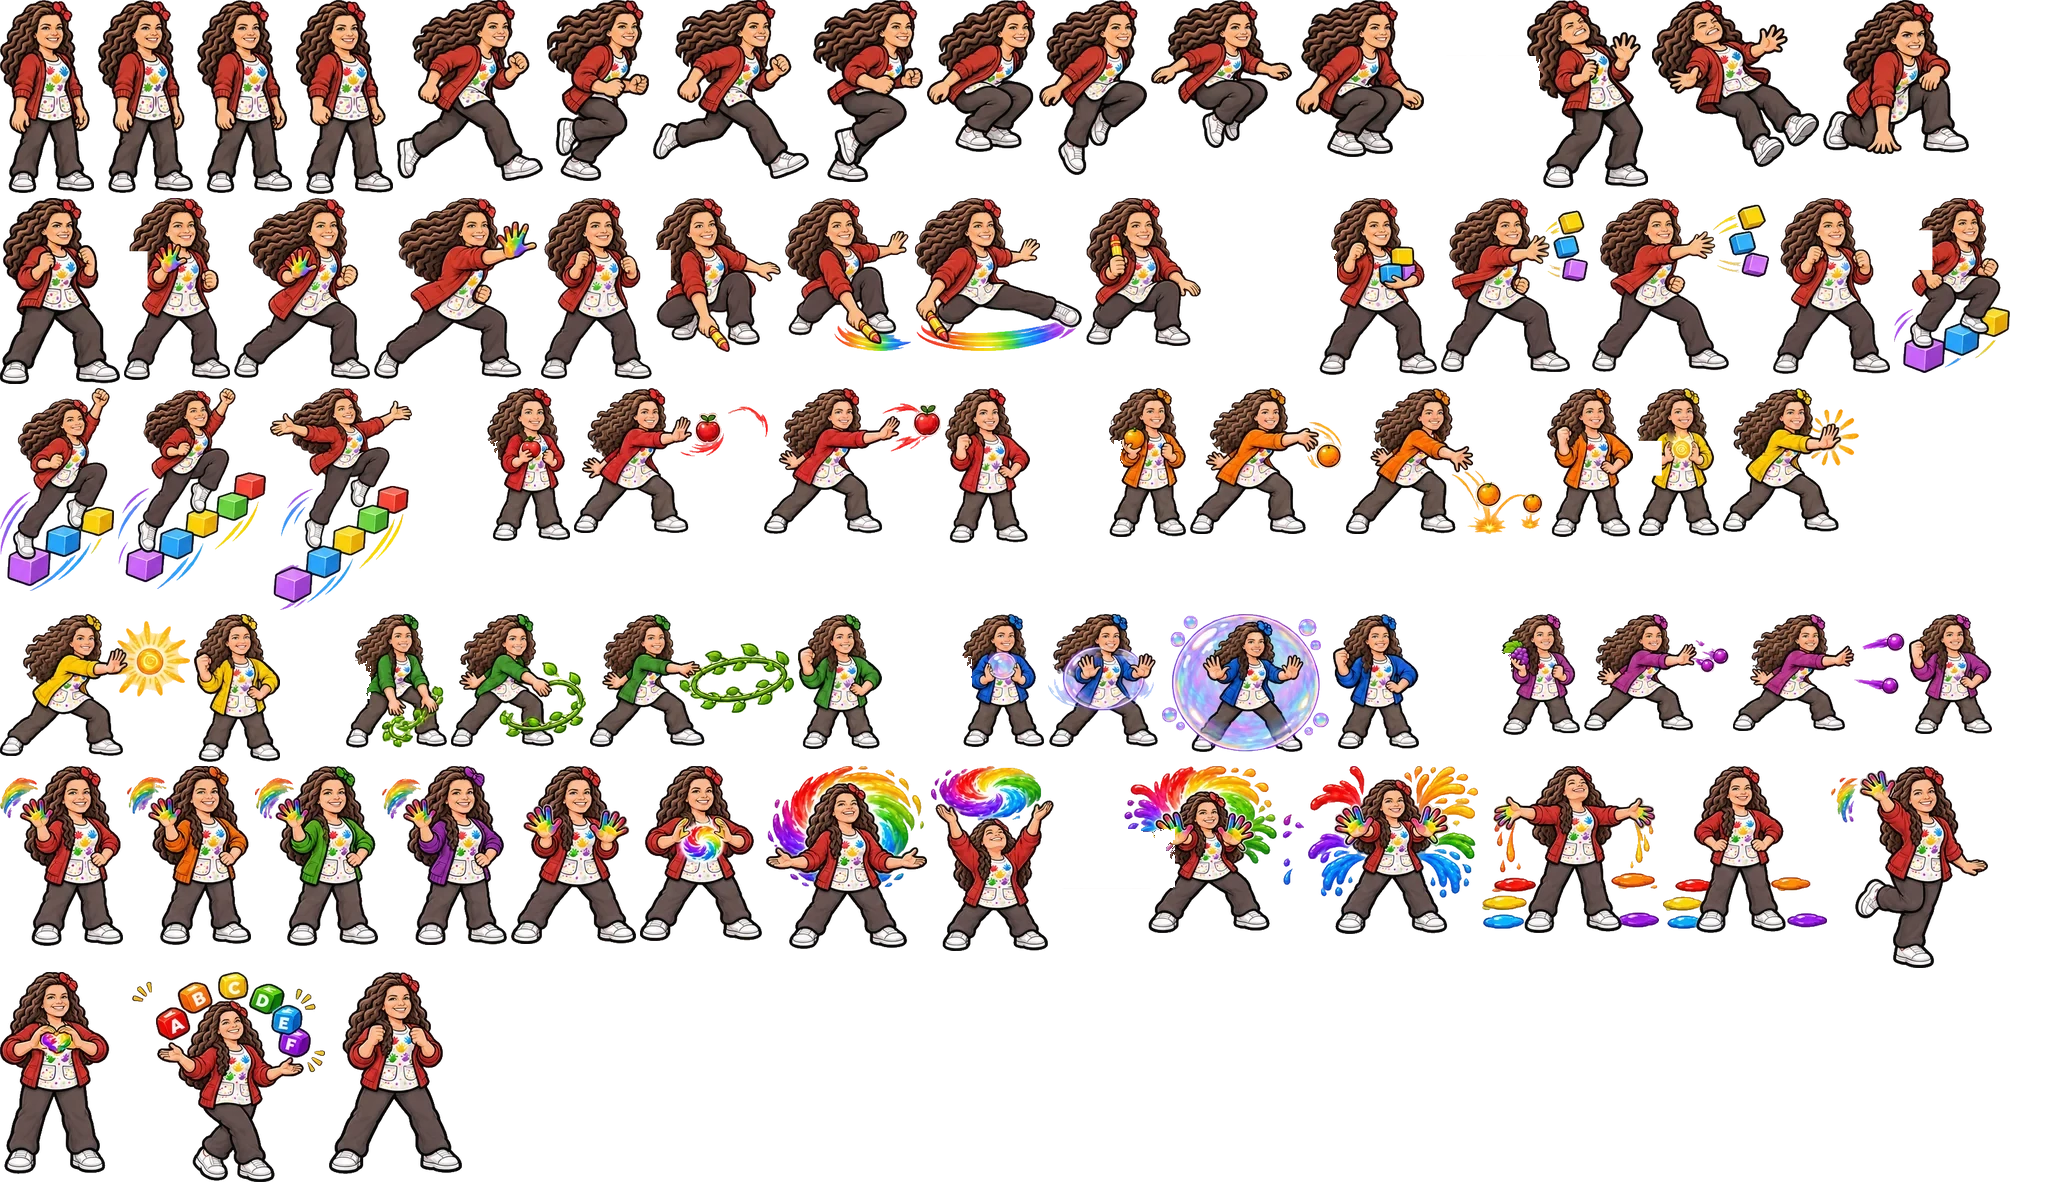
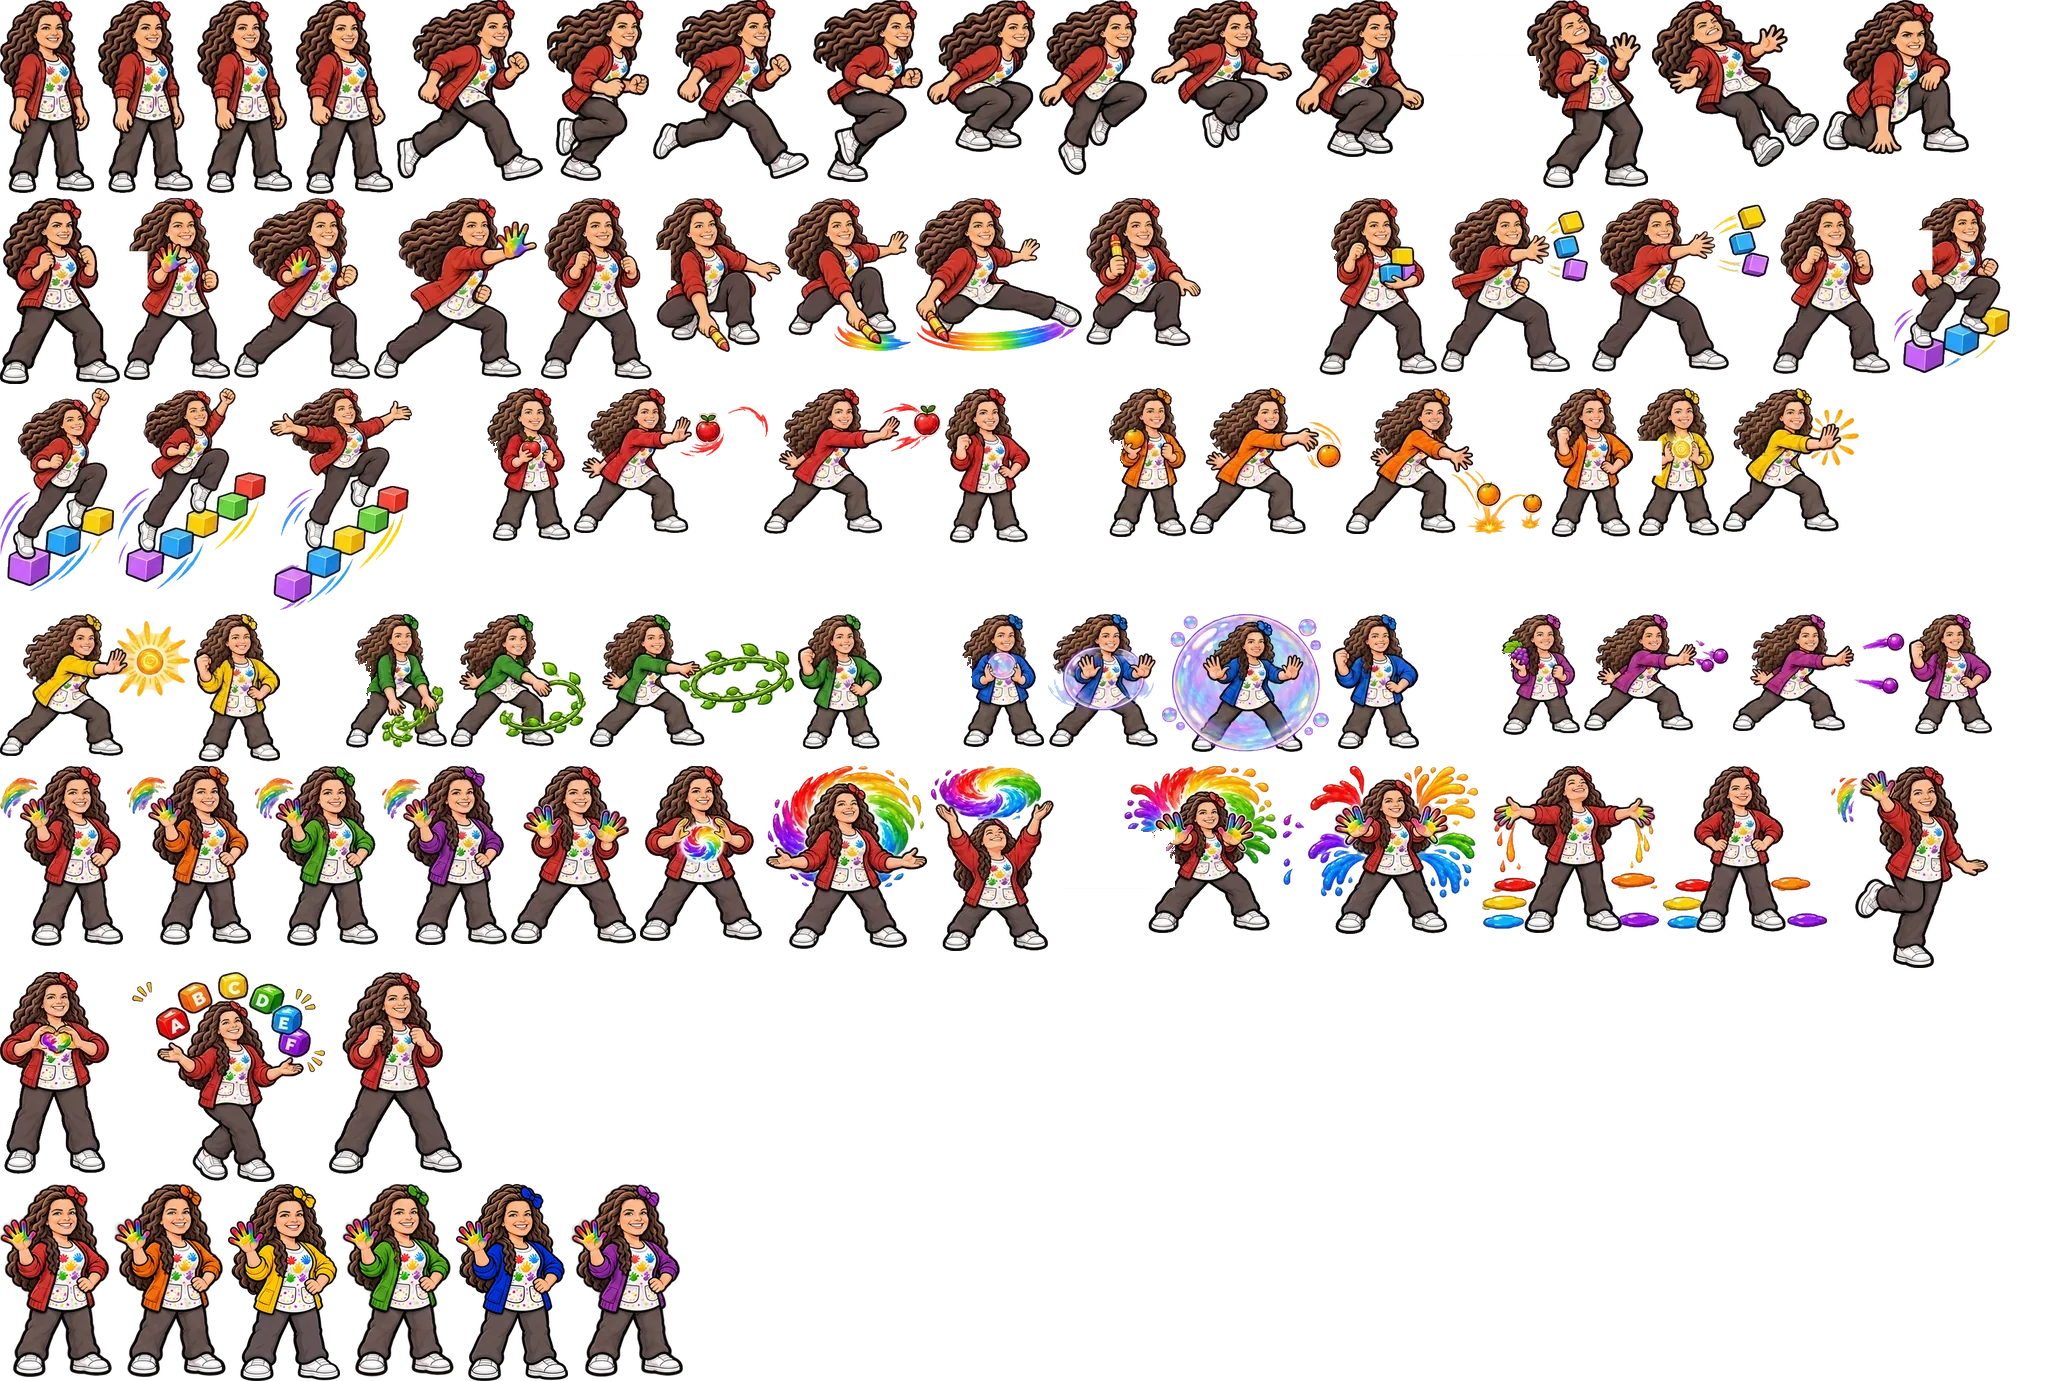
Morris Mayhem: Cloe's colour-swap poses and new giant close-up portraits
Cloe now waves in the jacket colour she is switching to (ChatGPT's six swap
key poses, sized to her standing height; tools/add_cloe_swaps.py). Giant
Jeff, Giant Patty and Triple Trouble use ChatGPT's new head-and-shoulder
close-ups on fighter select and Meet the family.

Claude-Session: https://claude.ai/code/session_01RfvCk8BiTKNajYvhD14yr3

diff --git a/morris-mayhem/src/js/render.js b/morris-mayhem/src/js/render.js
@@ -41,7 +41,7 @@ window.MM = window.MM || {};
       if (a.type === 'dodge') return M.defRow && f.ground ? M.defRow + (a.roll ? (a.t < 10 ? 2 : 3) : a.t < 8 ? 0 : 1) : f.ground ? 'idle0' : 'jump2';
       if (a.type === 'cleanup') return 'cup' + Math.min(3, Math.floor(a.t / (a.dur / 4))); // Codee: brush off the mess, into the lab coat
       if (a.type === 'backwork') { const nb = (f.def.mess && f.def.mess.backPoses) || 4; return 'back' + Math.min(nb - 1, Math.floor(a.t / (a.dur / nb))); }
-      if (a.type === 'shirt') return f.def.cycle === 'all' ? 'shuffle' + Math.min(3, a.t >> 2) : 'bump' + f.formIdx; // Cloe: the palette shuffle
+      if (a.type === 'shirt') return f.def.cycle === 'all' ? (S.frames['swap' + f.def.form] ? 'swap' + f.def.form : 'shuffle' + Math.min(3, a.t >> 2)) : 'bump' + f.formIdx; // Cloe: waves in the colour she switched to
       if (a.type === 'powerup' && S.frames.cup0) return 'cup' + Math.min(3, Math.floor(a.t / (a.dur / 4)));
       if (a.type === 'powerup') return 'idle0';
       if (a.type === 'powerend') return S.frames.back0 ? 'back' + Math.min(3, Math.floor(a.t / (a.dur / 4))) : 'idle0'; // Cole shows off the new printed shirt

diff --git a/morris-mayhem/src/js/sprites.js b/morris-mayhem/src/js/sprites.js
@@ -2501,6 +2501,12 @@ MM.SPRITES['cloe'] = {
     'pers1': [0, 972, 152, 202, 54.6, 202.1],
     'pers2': [156, 972, 169, 210, 77.8, 209.6],
     'pers3': [329, 972, 133, 202, 66.3, 201.5],
+    'swapred': [0, 1184, 112, 193, 55.8, 193.4],
+    'swaporange': [114, 1184, 112, 193, 55.8, 192.7],
+    'swapyellow': [228, 1184, 112, 197, 56.5, 196.7],
+    'swapgreen': [342, 1184, 112, 193, 55.8, 193.4],
+    'swapblue': [456, 1184, 112, 197, 56.5, 196.7],
+    'swappurple': [570, 1184, 113, 193, 56.5, 193.4],
     'ent': [1831, 766, 157, 202, 90.5, 202.1],
     'taunt': [0, 972, 152, 202, 54.6, 202.1],
     'win': [156, 972, 169, 210, 77.8, 209.6],

diff --git a/morris-mayhem/tools/add_cloe_swaps.py b/morris-mayhem/tools/add_cloe_swaps.py
@@ -1,0 +1,24 @@
+"""Add ChatGPT's six colour-swap key poses to Cloe's atlas as swapred .. swappurple.
+Each source is 320x352 with the feet at (160, 330); sized so her standing height matches idle0.
+usage: add_cloe_swaps.py <rawdir> <outdir>"""
+import sys, os, json, shutil
+from PIL import Image
+raw, out = sys.argv[1:3]
+base_a, base_f = f'{out}/cloe-base-atlas.webp', f'{out}/cloe-base-frames.json'
+if not os.path.exists(base_f):  # the atlas before the swaps were added, kept so this can be re-run
+    shutil.copy(f'{out}/cloe-atlas.webp', base_a); shutil.copy(f'{out}/cloe-frames.json', base_f)
+fr = json.load(open(base_f)); A = Image.open(base_a).convert('RGBA')
+cols = ['red', 'orange', 'yellow', 'green', 'blue', 'purple']
+ref = Image.open(f'{raw}/cloe-swap-red-v2.png').convert('RGBA')
+s = fr['idle0'][5] / (330 - ref.split()[3].getbbox()[1])  # feet-to-top of the red pose = idle's feet-to-top
+cuts = []
+for c in cols:
+    im = Image.open(f'{raw}/cloe-swap-{c}-v2.png').convert('RGBA'); bb = im.split()[3].getbbox(); im = im.crop(bb)
+    im = im.resize((round(im.width * s), round(im.height * s)), Image.LANCZOS)
+    cuts.append((f'swap{c}', im, ((160 - bb[0]) * s, (330 - bb[1]) * s)))
+y0 = A.height + 2; x = 0; H = max(c.height for _, c, _ in cuts)
+N = Image.new('RGBA', (A.width, y0 + H)); N.paste(A, (0, 0))
+for n, c, (ax, ay) in cuts:
+    N.paste(c, (x, y0)); fr[n] = [x, y0, c.width, c.height, round(ax, 1), round(ay, 1)]; x += c.width + 2
+N.save(f'{out}/cloe-atlas.webp', 'WEBP', quality=88, method=6); json.dump(fr, open(f'{out}/cloe-frames.json', 'w'))
+print('cloe', N.size, len(fr), 'swap scale', round(s, 3), fr['swapred'])
